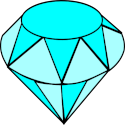
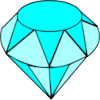
Scaled Images for cross-platform compatibility

diff --git a/src/View/GameView.java b/src/View/GameView.java
@@ -13,7 +13,7 @@ import Controller.*;
 public class GameView{
     Controller controller;
     //Dimensions
-    private final Dimension windowSize = new Dimension(1000,1000);
+    private final Dimension windowSize = new Dimension(800,800);
     //GUI Elements
     private JFrame window;
     private CardChooserDialog cardChooserDialog; 
@@ -37,7 +37,7 @@ public class GameView{
         window.getContentPane().add(boardPanel, BorderLayout.CENTER);
 
         window.setVisible(true);
-        window.setResizable(false);
+        window.setResizable(true);
         cardChooserDialog.setVisible(true);
     }
 

diff --git a/src/Controller/Controller.java b/src/Controller/Controller.java
@@ -14,7 +14,7 @@ import java.util.HashMap;
 
 import javax.swing.AbstractButton;
 
-//The main controller for the game, responsible for main game loop and tracking turns.
+//The main controller for the game, responsible for main game loop and determining win conditions 
 public class Controller {
     public static final int BOARD_SIZE = 64;
     private static GameView view;

diff --git a/src/View/CardStack.java b/src/View/CardStack.java
@@ -1,7 +1,6 @@
 package View;
 
 import Controller.CardType;
-import Controller.Controller;
 
 import javax.swing.*;
 
